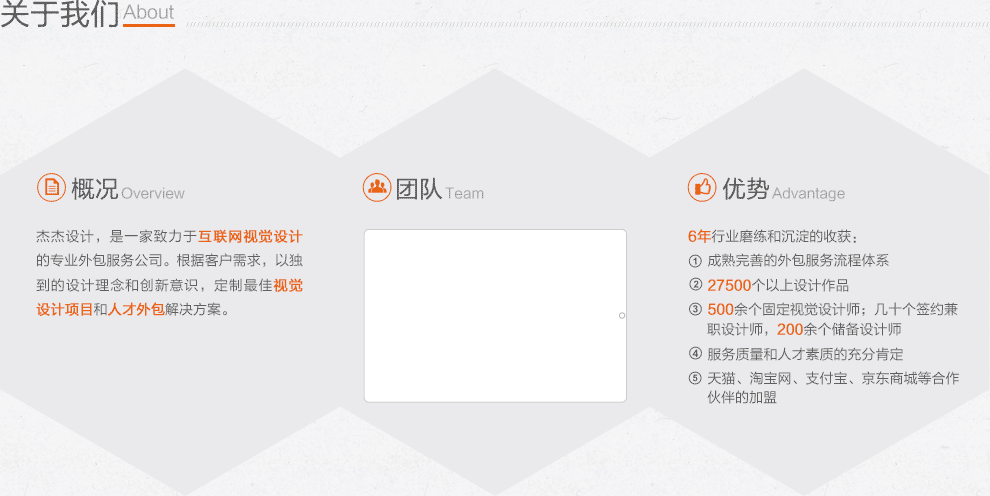
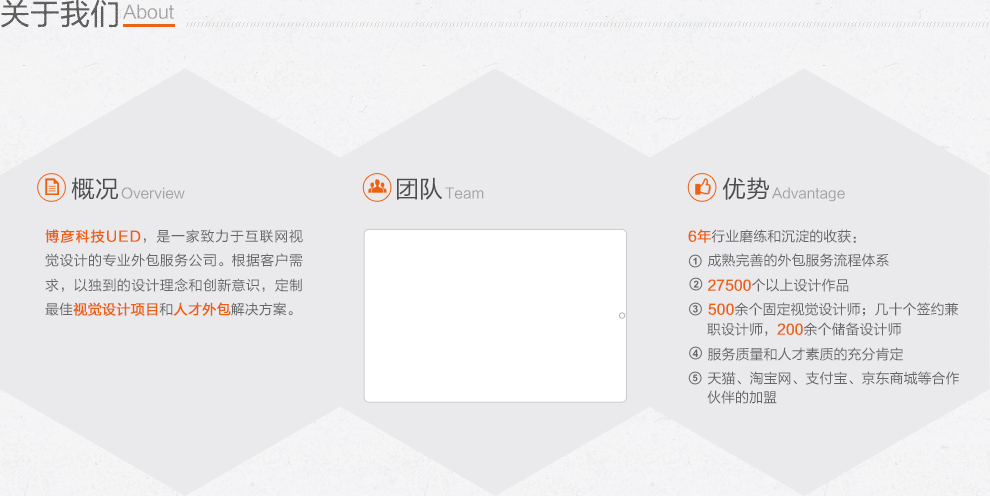
修改为博彦的

Changed region(s): [[0.0303, 0.4536, 0.303, 0.6351], [0.697, 0.6048, 0.9697, 0.6351]]

diff --git a/static/index.htm b/static/index.htm
@@ -216,7 +216,7 @@
 
 <div id="copy-right">
     <div class="item">
-        <p class="copyright">Copyright &copy; 2012 jiejie. All rights reserved.</p>
+        <p class="copyright">Copyright &copy; 2013 beyondsoft. All rights reserved.</p>
 
         <p class="contact">
             <span class="phone"><s></s>0571-88838528-886</span>
